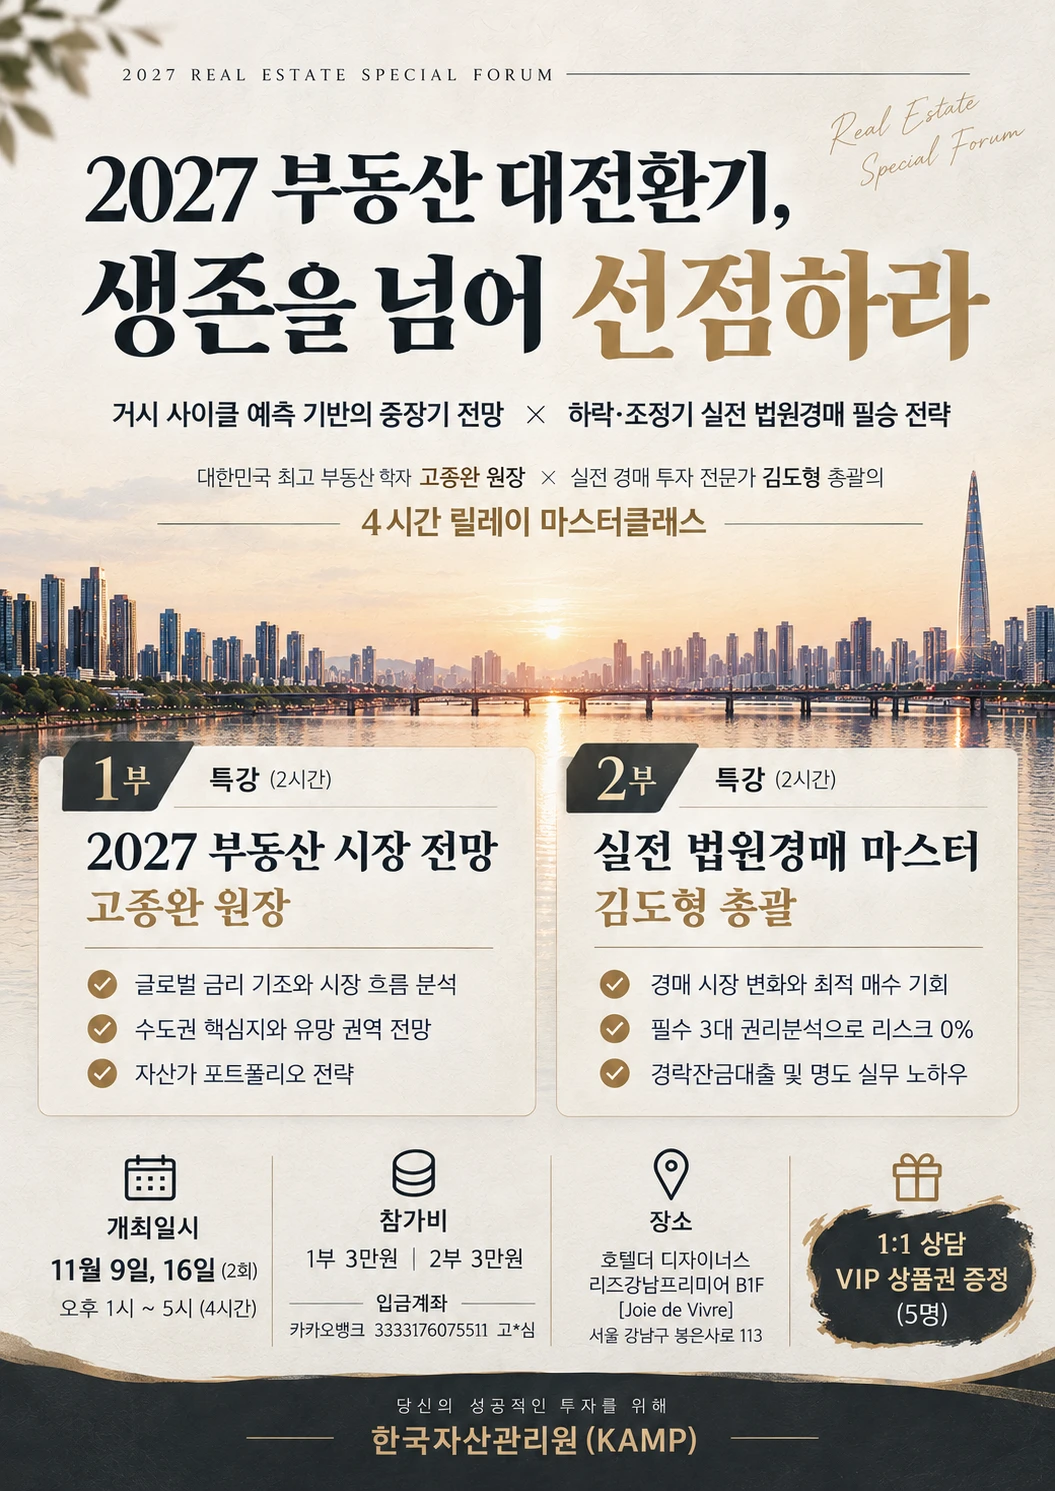
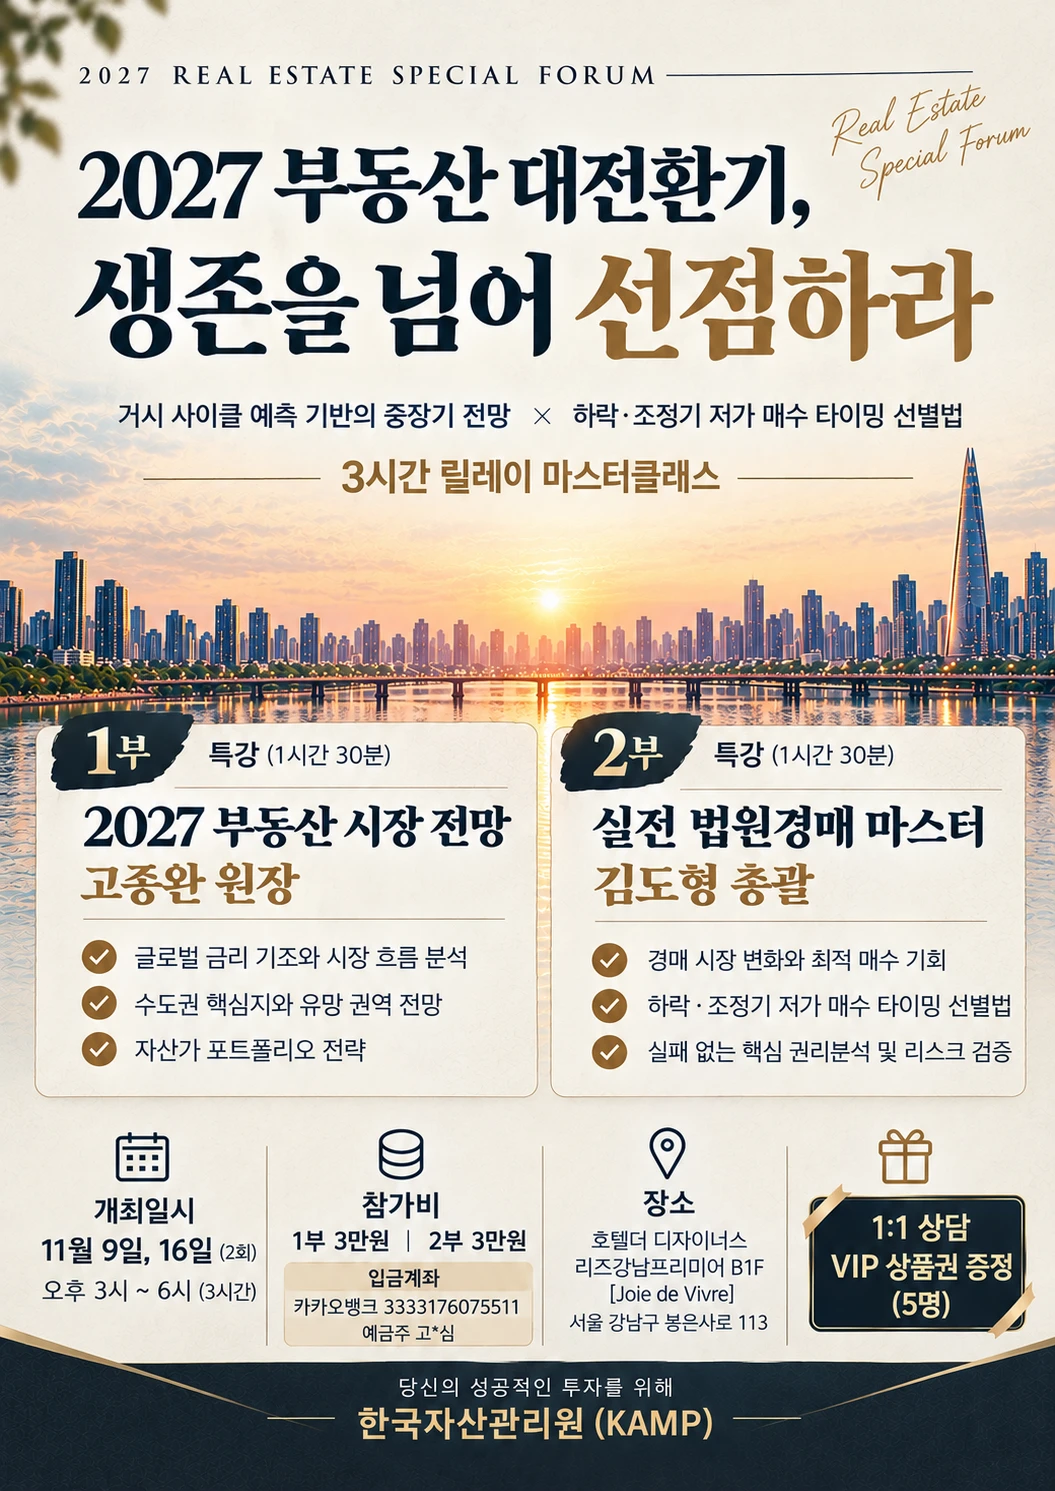
2027 특강 상세 이미지 교체 및 시간·내용 업데이트 (#73)
- images/seminar/forum-2027.webp: 새 안내 이미지로 교체
- js/seminars-data.js: 시간 오후 3시~6시(3시간), 1부/2부 각 1시간 30분,
  3시간 릴레이 마스터클래스, 부제 및 2부 내용을 새 포스터에 맞춰 동기화

Claude-Session: https://claude.ai/code/session_01Xw54FVvU8rhBJaWUNm3HNg

diff --git a/js/seminars-data.js b/js/seminars-data.js
@@ -23,29 +23,29 @@ window.SEMINARS_DATA = {
     date: "2026-11-09",
     poster: "/images/seminar/forum-2027-thumb.webp",
     summary: "/images/seminar/forum-2027.webp",
-    schedule: "11월 9일(월) · 16일(월) (오후 3시~7시)",
+    schedule: "11월 9일(월) · 16일(월) (오후 3시~6시)",
     place: "호텔 더 디자이너스 리즈강남프리미어 B1F",
     fee: "1부 3만원 · 2부 3만원",
     payment: true,
-    dateHint: "(참여할 날짜를 선택해 주세요 · 중복 선택 가능 · 오후 3시~7시)",
+    dateHint: "(참여할 날짜를 선택해 주세요 · 중복 선택 가능 · 오후 3시~6시)",
     info:
-      '<p><b>거시 사이클 예측 기반의 중장기 전망 × 하락·조정기 실전 법원경매 필승 전략</b></p>' +
-      '<p class="info-sub">대한민국 최고 부동산 학자 고종완 원장 × 실전 경매 투자 전문가 김도형 총괄의 4시간 릴레이 마스터클래스</p>' +
-      '<h3>1부 · 특강 (2시간) — 2027 부동산 시장 전망 / 고종완 원장</h3>' +
+      '<p><b>거시 사이클 예측 기반의 중장기 전망 × 하락·조정기 저가 매수 타이밍 선별법</b></p>' +
+      '<p class="info-sub">대한민국 최고 부동산 학자 고종완 원장 × 실전 경매 투자 전문가 김도형 총괄의 3시간 릴레이 마스터클래스</p>' +
+      '<h3>1부 · 특강 (1시간 30분) — 2027 부동산 시장 전망 / 고종완 원장</h3>' +
       '<ul>' +
         '<li>글로벌 금리 기조와 시장 흐름 분석</li>' +
         '<li>수도권 핵심지와 유망 권역 전망</li>' +
         '<li>자산가 포트폴리오 전략</li>' +
       '</ul>' +
-      '<h3>2부 · 특강 (2시간) — 실전 법원경매 마스터 / 김도형 총괄</h3>' +
+      '<h3>2부 · 특강 (1시간 30분) — 실전 법원경매 마스터 / 김도형 총괄</h3>' +
       '<ul>' +
         '<li>경매 시장 변화와 최적 매수 기회</li>' +
-        '<li>필수 3대 권리분석으로 리스크 0%</li>' +
-        '<li>경락잔금대출 및 명도 실무 노하우</li>' +
+        '<li>하락·조정기 저가 매수 타이밍 선별법</li>' +
+        '<li>실패 없는 핵심 권리분석 및 리스크 검증</li>' +
       '</ul>' +
       '<h3>일정</h3>' +
       '<p>11월 9일(월) · 16일(월) (2회)<br>' +
-      '<span class="info-sub">오후 3시~7시 (4시간)</span></p>' +
+      '<span class="info-sub">오후 3시~6시 (3시간)</span></p>' +
       '<h3>참가비</h3>' +
       '<p>1부 <b>3만원</b> · 2부 <b>3만원</b></p>' +
       '<h3>참석자 혜택</h3>' +
